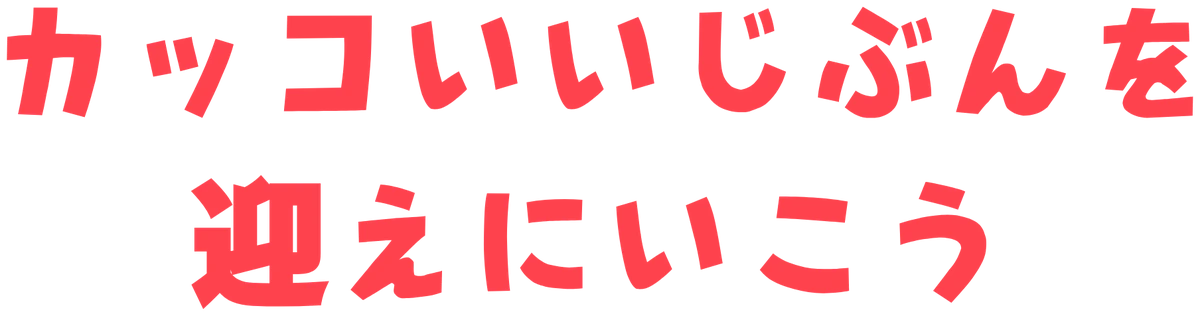
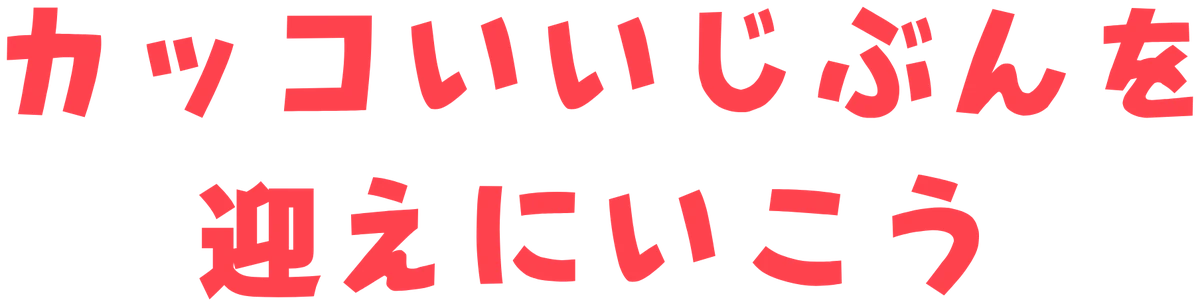
キャッチ画像を小さく／迎の大きさ調整／フォントに無い字の太さ・大きさを本文に合わせる
Claude-Session: https://claude.ai/code/session_01XgjijyLU6VeTRS7PzBXLbU

diff --git a/index.html b/index.html
@@ -77,7 +77,7 @@
 <style>
 /* トップ：男性→女性がふんわり出て、最後にキャッチが出る（1回だけ再生して最後の状態で止まる） */
 /* トップ：キャッチ文字＋写真（男性→女性にふわっと切り替わる。1回だけ再生） */
-.hf-copy{display:block;width:86%;max-width:560px;height:auto;margin:20px auto 14px;opacity:0;animation:hfIn 1.6s .2s ease-in-out forwards}
+.hf-copy{display:block;width:70%;max-width:420px;height:auto;margin:20px auto 14px;opacity:0;animation:hfIn 1.6s .2s ease-in-out forwards}
 .hf-frame{margin:0 2%;padding:7px;border:6px dotted #6ccbe3;border-radius:34px;box-sizing:border-box}
 .hero-fade{position:relative;width:100%;aspect-ratio:3/2;overflow:hidden;border-radius:26px;background:#f4efdb}
 .hero-fade img{position:absolute;left:0;top:0;width:100%;height:100%;object-fit:cover;max-width:none;opacity:0;animation:hfIn 1.8s .2s ease-in-out forwards}
@@ -88,7 +88,7 @@
 </style>
 <style>
 @font-face{font-family:"NameFont";src:url("assets/fonts/MochiyName.woff2?v=20261118") format("woff2");font-display:swap}
-@font-face{font-family:"RiiFix";src:local("Hiragino Maru Gothic ProN"),local("HiraMaruProN-W4"),local("Yuanti SC"),local("Noto Sans CJK JP"),local("Noto Sans JP"),local("Yu Gothic");unicode-range:U+5BE7,U+6311,U+63F4,U+6B53,U+6EA2,U+74B0,U+790E,U+7DBA,U+7DD2,U+8F1D,U+8FCE,U+9E97,U+5100,U+5C3E,U+5F18}
+@font-face{font-family:"RiiFix";src:local("Hiragino Maru Gothic ProN"),local("HiraMaruProN-W4"),local("Yuanti SC"),local("Noto Sans CJK JP"),local("Noto Sans JP"),local("Yu Gothic");size-adjust:94%;unicode-range:U+5BE7,U+6311,U+63F4,U+6B53,U+6EA2,U+74B0,U+790E,U+7DBA,U+7DD2,U+8F1D,U+8FCE,U+9E97,U+5100,U+5C3E,U+5F18}
 @font-face{font-family:"RiiCookie";src:url("assets/fonts/RiiCookieRt.otf?v=20261117") format("opentype");font-display:swap}
 /* YouTube最新動画 */
 .yt-sec{background:#ff424e;padding:44px 0 48px;margin-top:0;font-family:"RiiFix","RiiCookie","Noto Sans JP",sans-serif}
@@ -115,6 +115,7 @@
 .msg-rb{font-size:2.5rem;line-height:1.5;color:#333}
 .msg-rb b{font-weight:400;color:#ff424e}.msg-rb i{font-style:normal;color:#5ad0e8}
 .msg-ex{margin-top:16px;text-align:left}
+.fx{font-family:"RiiFix","Hiragino Maru Gothic ProN","Noto Sans JP",sans-serif;font-weight:700;-webkit-text-stroke:.5px currentColor}
 .msg-row{display:flex;gap:10px;margin-top:12px;align-items:flex-start}
 .msg-n{flex:0 0 30px;height:30px;border-radius:50%;background:#ff424e;color:#fff;font-size:1.5rem;line-height:30px;text-align:center}
 .msg-n.c{background:#5ad0e8}
@@ -167,16 +168,16 @@
     ほとんどの方が初心者で、<br>
     大人になって始められた方ばかりです。<br>
     会員さん同士も仲がよく、<br>
-    笑顔溢れるアットホームな環境で<br>
+    笑顔<span class="fx">溢</span>れるアットホームな<span class="fx">環</span>境で<br>
     楽しみながら続けることができます。<br>
     運動が久しぶりの方も<br>
     運動に自信がない方も<br>
     安心して来ていただけるよう<br>
-    丁寧なサポートを心がけています。<br>
+    丁<span class="fx">寧</span>なサポートを心がけています。<br>
     <br>
-    基礎体力をつけたい方<br>
+    基<span class="fx">礎</span>体力をつけたい方<br>
     自信をつけたい方<br>
-    綺麗な筋肉をつけたい方<br>
+    <span class="fx">綺</span><span class="fx">麗</span>な筋肉をつけたい方<br>
     ストレス発散したい方<br>
     <br>
     ぜひ一度体験してみて下さい。</p>
@@ -205,9 +206,9 @@
 <div class="msg-rinen"><span class="msg-tag">理念</span>
 <div class="msg-rb"><b>心と体を元気に。</b><br><i>カッコよく素敵に。</i></div>
 <div class="msg-ex">
-<div class="msg-row"><div class="msg-n">1</div><div><div class="msg-vt">心と体を元気に。</div><div class="msg-vp">心と体が元気であることは、何かに挑戦したり、新しい一歩をふみ出すための土台です。<br>ボクシングを通して、心も体も健康に。毎日を元気に、自分らしく過ごせるように。</div></div></div>
-<div class="msg-row"><div class="msg-n c">2</div><div><div class="msg-vt">カッコよく素敵に。</div><div class="msg-vp">元気になったその先は、自分が「カッコいい」「素敵だな」と思える自分へ。<br>外見だけでなく、内面も。自分らしく輝き、今よりもっと自分を好きになれるように。</div></div></div>
-<div class="msg-row"><div class="msg-n">3</div><div><div class="msg-vt">ボクシングを通して、自己実現へ。</div><div class="msg-vp">私たちは、ボクシングを通して心と体を元気にし、その先にある一人ひとりの自己実現を応援します。<br>自分が目指す自分へ。ワンバランスは、その一歩を一緒に歩んでいきます。</div></div></div>
+<div class="msg-row"><div class="msg-n">1</div><div><div class="msg-vt">心と体を元気に。</div><div class="msg-vp">心と体が元気であることは、何かに<span class="fx">挑</span>戦したり、新しい一歩をふみ出すための土台です。<br>ボクシングを通して、心も体も健康に。毎日を元気に、自分らしく過ごせるように。</div></div></div>
+<div class="msg-row"><div class="msg-n c">2</div><div><div class="msg-vt">カッコよく素敵に。</div><div class="msg-vp">元気になったその先は、自分が「カッコいい」「素敵だな」と思える自分へ。<br>外見だけでなく、内面も。自分らしく<span class="fx">輝</span>き、今よりもっと自分を好きになれるように。</div></div></div>
+<div class="msg-row"><div class="msg-n">3</div><div><div class="msg-vt">ボクシングを通して、自己実現へ。</div><div class="msg-vp">私たちは、ボクシングを通して心と体を元気にし、その先にある一人ひとりの自己実現を応<span class="fx">援</span>します。<br>自分が目指す自分へ。ワンバランスは、その一歩を一<span class="fx">緒</span>に歩んでいきます。</div></div></div>
 </div></div>
 <div class="msg-card"><span class="msg-tag c">VISION</span><div class="msg-t">日本一！始めやすい<br>ボクシングジム</div><div class="msg-p">鳥取県から日本一へ。<br>初めてでも運動が久しぶりでも、<br>ボクシングの最初の一歩を、<br>ふみ出せる場所をつくります。</div></div>
 <div class="msg-card"><span class="msg-tag">MISSION</span><div class="msg-t">ボクシング革命</div><div class="msg-p">「ボクシングは、きつい・つらい」を<br>「楽しい」に変える。<br>ボクシングの常識を変えていきます。</div></div>
